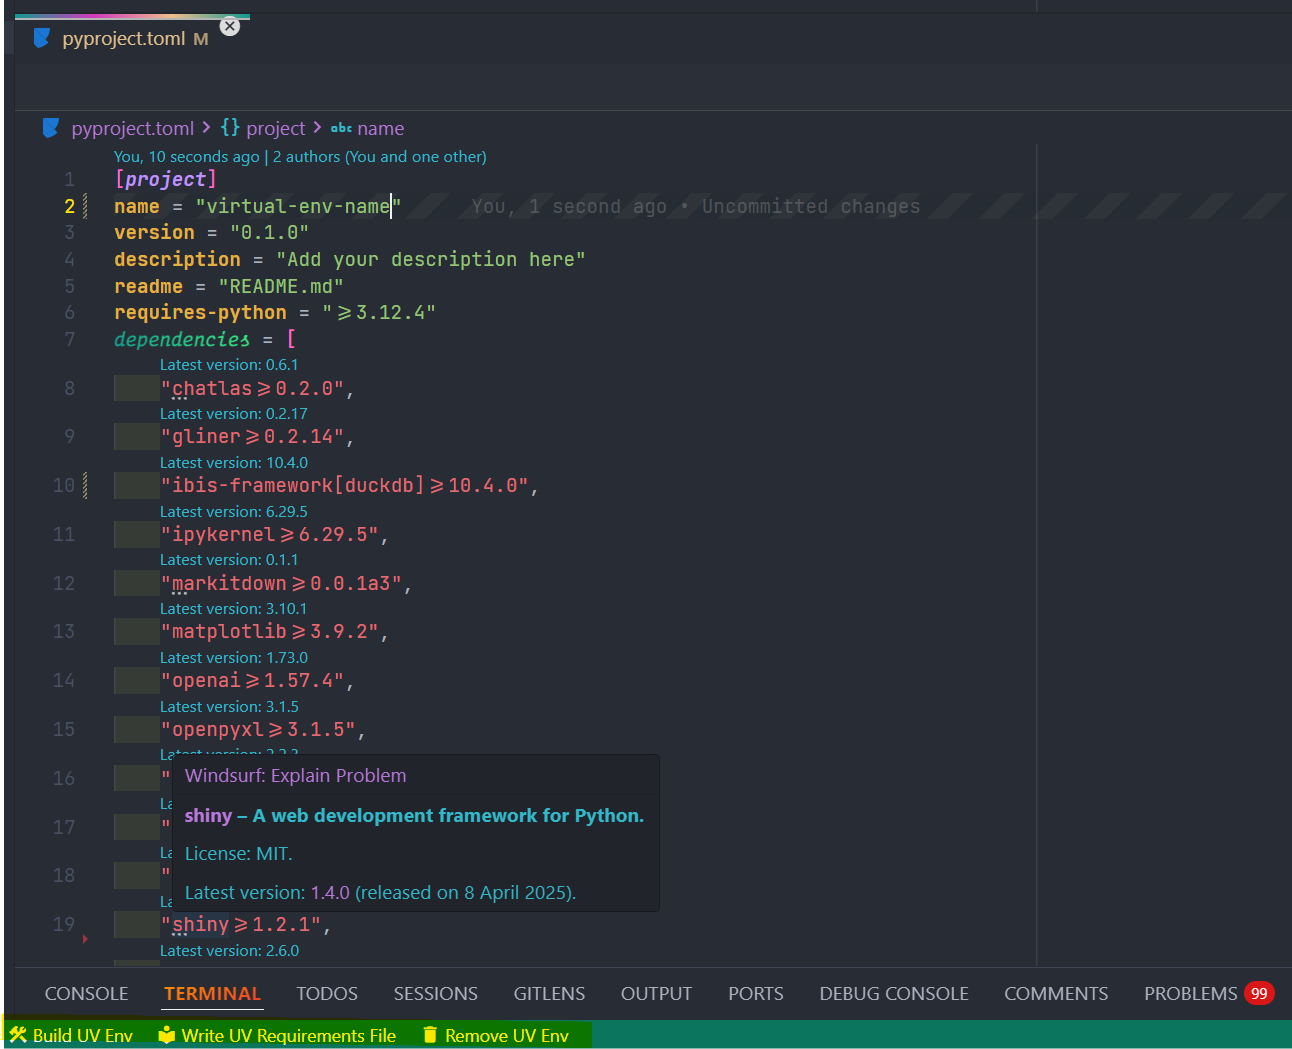
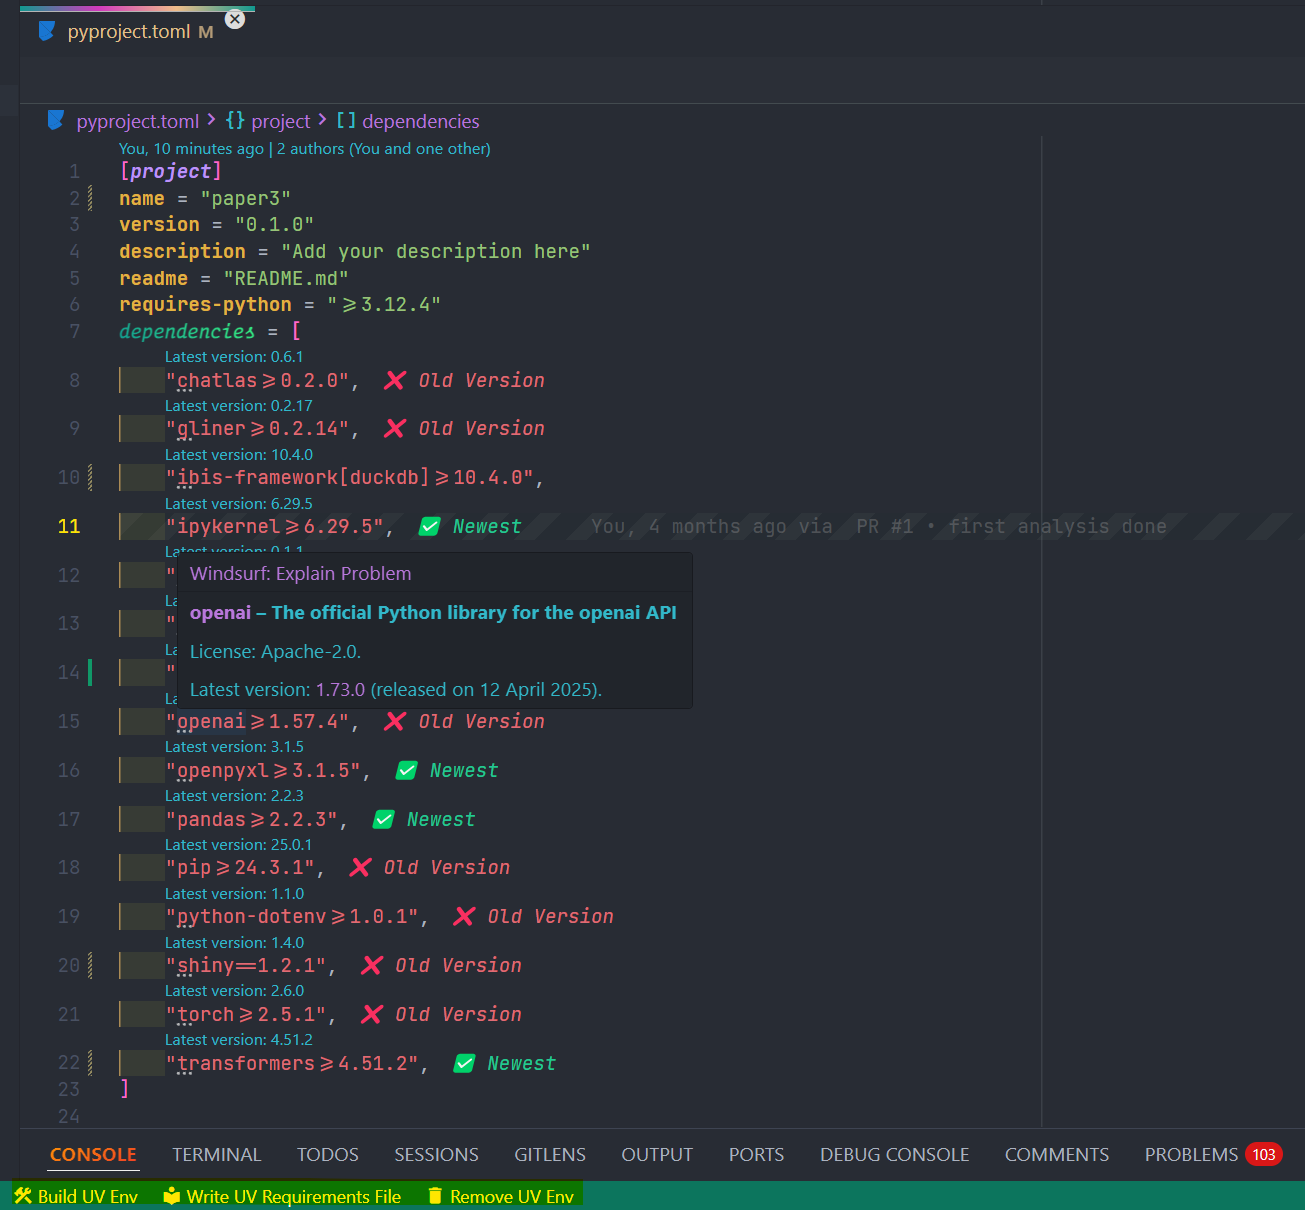
done everything

diff --git a/src/packageManager.ts b/src/packageManager.ts
@@ -1,0 +1,104 @@
+// packageManager.ts
+import * as vscode from 'vscode';
+import pLimit from 'p-limit';
+import { PyPI } from './utils'; 
+import { RequirementsParser } from './parser'
+import { outdatedDecorationType, upToDateDecorationType, getDecorationOptions } from './decorations';
+import * as semver from 'semver';
+import { ProjectNameRequirement } from 'pip-requirements-js';
+
+
+const pypi = new PyPI();
+const requirementsParser = new RequirementsParser();
+const concurrencyLimit = 5;
+const limit = pLimit(concurrencyLimit);
+
+// Parse a dependency line from requirements.txt or pyproject.toml
+function parsePackageLine(line: string, languageId: string): { name: string, version: string | null } | null {
+    line = line.trim();
+
+    if (languageId === 'pip-requirements') {
+        const match = line.match(/^([\w\-\_]+)([=<>!~]+([\d\w.\-]+))?/);
+        if (match) {
+            return { name: match[1], version: match[3] || null };
+        }
+    } 
+    else if (languageId === 'toml') {
+        // Clean line
+        if (line.endsWith(',')) line = line.slice(0, -1); // Remove trailing comma
+        line = line.replace(/["']/g, ''); // Remove quotes
+
+        const match = line.match(/^([\w\-]+(?:\[[\w\-]+\])?)([=<>!~]+([\d\w.\-]+))?/);
+        if (match) {
+            return { name: match[1], version: match[3] || null };
+        }
+    }
+    
+    return null;
+}
+
+// Main decoration function
+export async function addVersionComparisonDecorations(document: vscode.TextDocument) {
+    const editor = vscode.window.visibleTextEditors.find(editor => editor.document === document);
+    if (!editor) return;
+
+    const text = document.getText();
+    const lines = text.split('\n');
+
+    const outdatedOptions: vscode.DecorationOptions[] = [];
+    const upToDateOptions: vscode.DecorationOptions[] = [];
+
+    let insideDependenciesBlock = false;
+
+    const decorationPromises = lines.map((line, i) => limit(async () => {
+        let parsed = null;
+
+        if (document.languageId === 'pip-requirements') {
+            parsed = parsePackageLine(line, document.languageId);
+        } else if (document.languageId === 'toml') {
+            const trimmed = line.trim();
+            if (trimmed.startsWith('dependencies') && trimmed.includes('[')) {
+                insideDependenciesBlock = true;
+                return;
+            }
+            if (insideDependenciesBlock && trimmed.startsWith(']')) {
+                insideDependenciesBlock = false;
+                return;
+            }
+            if (insideDependenciesBlock) {
+                parsed = parsePackageLine(line, document.languageId);
+            }
+        }
+
+        if (parsed) {
+            const requirement: ProjectNameRequirement = { name: parsed.name, type: 'ProjectName' };
+            try {
+                const metadata = await pypi.fetchPackageMetadata(requirement);
+                const latestVersion = metadata.info.version;
+                const declaredVersion = parsed.version ? semver.coerce(parsed.version)?.version : null;
+                const latestClean = semver.coerce(latestVersion)?.version;
+
+                if (declaredVersion && latestClean) {
+                    const packageNameIndex = line.indexOf(parsed.name);
+                    const range = new vscode.Range(
+                        new vscode.Position(i, packageNameIndex),
+                        new vscode.Position(i, line.length)
+                    );
+
+                    if (semver.lt(declaredVersion, latestClean)) {
+                        outdatedOptions.push(getDecorationOptions(range, 'outdated'));
+                    } else {
+                        upToDateOptions.push(getDecorationOptions(range, 'up-to-date'));
+                    }
+                }
+            } catch (error) {
+                console.error(`Failed fetching metadata for ${parsed.name}`, error);
+            }
+        }
+    }));
+
+    await Promise.all(decorationPromises);
+
+    editor.setDecorations(outdatedDecorationType, outdatedOptions);
+    editor.setDecorations(upToDateDecorationType, upToDateOptions);
+}

diff --git a/src/uv/commands.ts b/src/uv/commands.ts
@@ -420,53 +420,59 @@ async function upgradeDependencies() {
 
     if (!options) return;
 
-    let command = 'uv pip compile pyproject.toml -o uv.lock';
-    
+    let commands: string[] = []; // multiple commands if needed
+
     if (options.label === 'Upgrade all') {
-        command += ' --upgrade';
+        // Upgrade all dependencies
+        commands.push('uv sync --upgrade');
     } else if (options.label === 'Upgrade specific package') {
-        // Parse pyproject.toml to get the list of dependencies
+        // Parse pyproject.toml to get dependencies
         const pyprojectContent = fs.readFileSync(pyprojectPath, 'utf-8');
         const parsedToml = toml.parse(pyprojectContent);
 
         const dependencies: string[] = parsedToml.project?.dependencies ?? [];
-        
+
         if (dependencies.length === 0) {
-          vscode.window.showErrorMessage('No dependencies found in pyproject.toml');
-          return;
+            vscode.window.showErrorMessage('No dependencies found in pyproject.toml');
+            return;
         }
-        // Extract package names (before version constraints, extras, etc.)
+
+        // Extract clean package names
         const packages = dependencies.map(dep => dep.split(/[=<>!~\[]/)[0].trim());
         if (packages.length === 0) {
-          vscode.window.showErrorMessage('No packages found in dependencies.');
-          return;
+            vscode.window.showErrorMessage('No packages found in dependencies.');
+            return;
         }
+
         const selectedPackage = await vscode.window.showQuickPick(packages, {
-          placeHolder: 'Select a package to upgrade'
+            placeHolder: 'Select a package to upgrade'
         });
         if (!selectedPackage) return;
 
-        command += ` --upgrade-package ${selectedPackage}`;
+        // Remove the old version first
+        commands.push(`uv remove ${selectedPackage}`);
+        // Add the latest version
+        commands.push(`uv add ${selectedPackage}`);
     }
-    
+
     // Show progress notification
     vscode.window.withProgress({
         location: vscode.ProgressLocation.Notification,
         title: 'Upgrading dependencies',
         cancellable: false
-    }, async (progress) => {
+    }, async () => {
         try {
-            // Run uv pip compile command to upgrade dependencies
-            await new Promise<void>((resolve, reject) => {
-                exec(command, { cwd: workspaceRoot }, (error, stdout, stderr) => {
-                    if (error) {
-                        reject(new Error(stderr));
-                        return;
-                    }
-                    resolve();
+            for (const cmd of commands) {
+                await new Promise<void>((resolve, reject) => {
+                    exec(cmd, { cwd: workspaceRoot }, (error, stdout, stderr) => {
+                        if (error) {
+                            reject(new Error(stderr || stdout));
+                            return;
+                        }
+                        resolve();
+                    });
                 });
-            });
-            
+            }
             vscode.window.showInformationMessage('Dependencies upgraded successfully.');
         } catch (error: any) {
             vscode.window.showErrorMessage(`Failed to upgrade dependencies: ${error.message}`);

diff --git a/src/extension.ts b/src/extension.ts
@@ -15,8 +15,34 @@ import { buildEnv, installPackagesUV, writeRequirements, removeEnv } from "./uv/
 import { createEnvIcon, installPackagesIcon, writeEnvIcon, deleteEnvIcon } from "./uv/statusBarItems";
 import { registerCommands } from './uv/commands';
 import { registerPackageManager } from './uv/packageManager';
+import { initializeDecoration } from './decorations';
+import { addVersionComparisonDecorations } from './packageManager';
 
 export function activate(context: vscode.ExtensionContext) {
+
+    initializeDecoration();
+    registerCommands(context);
+
+    context.subscriptions.push(
+        vscode.workspace.onDidOpenTextDocument(async (document) => {
+            const enableDecorations = vscode.workspace.getConfiguration('positronPythonPackageManager').get('enableVersionDecorations', true);
+            if (enableDecorations && ['pip-requirements', 'toml'].includes(document.languageId)) {
+                await addVersionComparisonDecorations(document);
+            }
+        }),
+        vscode.workspace.onDidChangeTextDocument(async (event) => {
+            const enableDecorations = vscode.workspace.getConfiguration('positronPythonPackageManager').get('enableVersionDecorations', true);
+            if (enableDecorations && ['pip-requirements', 'toml'].includes(event.document.languageId)) {
+                await addVersionComparisonDecorations(event.document);
+            }
+        }),
+        vscode.window.onDidChangeActiveTextEditor(async (editor) => {
+            const enableDecorations = vscode.workspace.getConfiguration('positronPythonPackageManager').get('enableVersionDecorations', true);
+            if (enableDecorations && editor && ['pip-requirements', 'toml'].includes(editor.document.languageId)) {
+                await addVersionComparisonDecorations(editor.document);
+            }
+        })
+    );
     // --------------------------------------------------------------------------
     // Inline Missing Module Installer Setup
     // --------------------------------------------------------------------------

diff --git a/src/decorations.ts b/src/decorations.ts
@@ -1,0 +1,34 @@
+// decoration.ts
+import * as vscode from 'vscode';
+
+export let outdatedDecorationType: vscode.TextEditorDecorationType;
+export let upToDateDecorationType: vscode.TextEditorDecorationType;
+
+export function initializeDecoration() {
+    outdatedDecorationType = vscode.window.createTextEditorDecorationType({
+        after: {
+            margin: '0 0 0 1em',
+            color: '#e06c75',
+            fontStyle: 'italic',
+        },
+    });
+
+    upToDateDecorationType = vscode.window.createTextEditorDecorationType({
+        after: {
+            margin: '0 0 0 1em',
+            color: '#22c893',
+            fontStyle: 'italic',
+        },
+    });
+}
+
+export function getDecorationOptions(range: vscode.Range, status: 'outdated' | 'up-to-date'): vscode.DecorationOptions {
+    return {
+        range,
+        renderOptions: {
+            after: {
+                contentText: status === 'outdated' ? '❌ Old Version' : '✅ Newest',
+            }
+        }
+    };
+}

diff --git a/CHANGELOG.md b/CHANGELOG.md
@@ -1,5 +1,9 @@
 # Change Log
 
+## 0.0.8
+
+- Add new decoration in `pyprojects.toml` and `requirements.txt` file
+
 ## 0.0.7
 
 - Add more supports for uv
